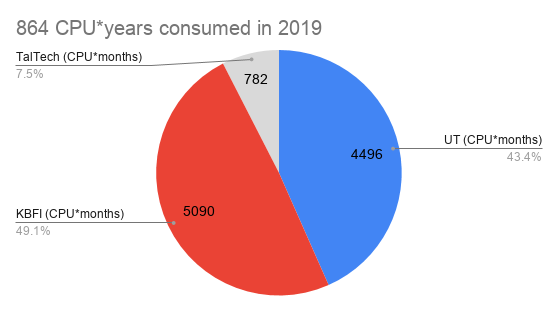
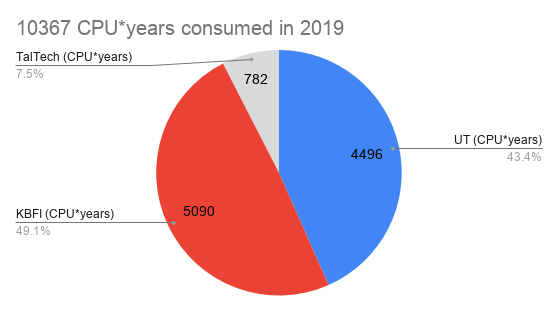
Fix conversion of years - months

diff --git a/_posts/2020-02-26-hpc-stats.md b/_posts/2020-02-26-hpc-stats.md
@@ -1,17 +1,17 @@
 ---
 layout: article
-title: "Estonian HPC centers have delivered almost a millennium of CPU usage in 2019"
+title: "Estonian HPC centers have delivered over 10 millennia of CPU usage in 2019"
 ---
 
-The three computational centers comprising ETAIS have delivered in total 864 CPU*years for
+The three computational centers comprising ETAIS have delivered in total 10367 CPU*years for
 research communities in Estonia. A split and more details can be seen in the chart below.
 
 <img src="{{ site.url }}/images/cpu-consumption-etais-2019.png">
 
 We exclude from the chart GPU usage, the demand for which has greatly increased over the last year
-as it confusing to compare them to CPUs without skewing the data.
+as it is confusing to compare them to CPUs without skewing the data.
 
-We expect to breach the symbolic 1000 CPU*year consumption in 2020 and go even further once EuroHPC LUMI
-becomes operational.
+We expect the number to grow further in 2020 and even more so once EuroHPC LUMI
+becomes operational in 2021.
 
 For more information please contact <a href="mailto:ivar.koppel@ut.ee">Ivar Koppel</a>.
